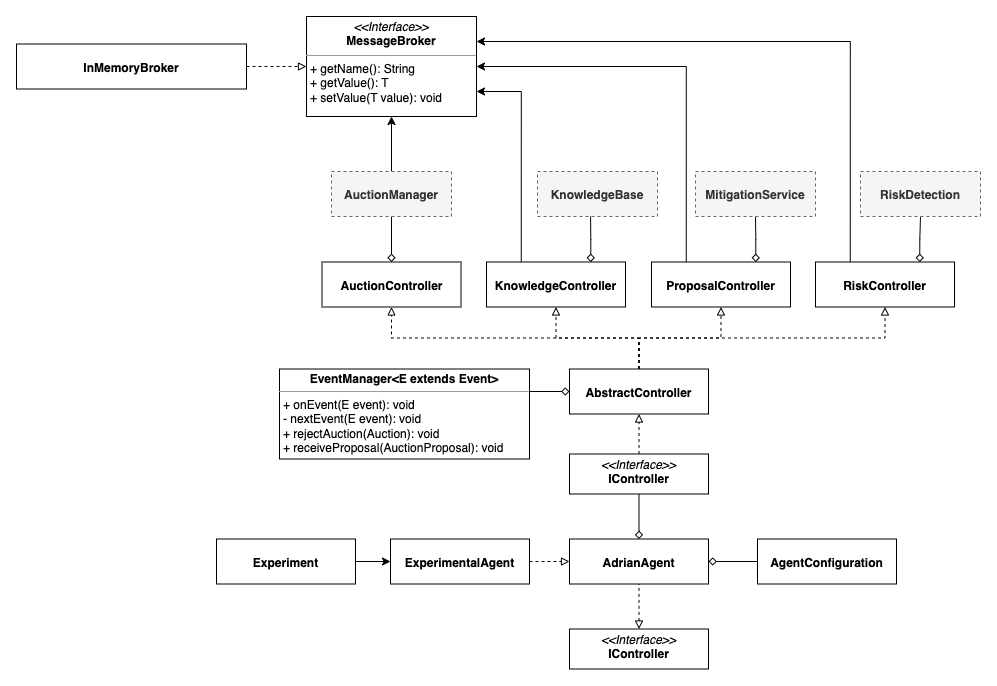
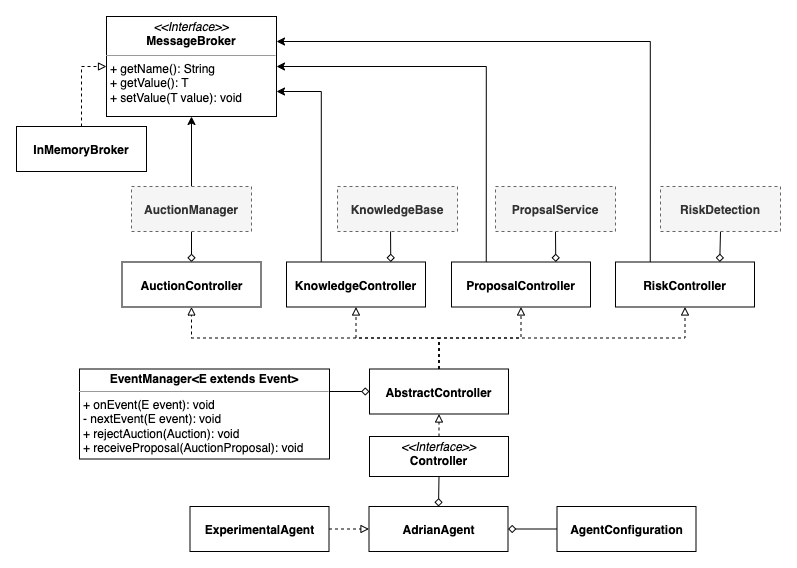
update graphs and text

diff --git a/packages/thesis/src/sections/software-realization.tex b/packages/thesis/src/sections/software-realization.tex
@@ -72,29 +72,58 @@ In the real world the infrastructure is a graph structure, something that it \co
     \label{fig:uml-graphs}
 \end{figure}
 
+\subsubsection{Services}
+\label{sssec:services}
+Each controller is only responsible for converting events into service calls. But to implement the actual logic, the controllers use services. These services are responsible for the actual computations, such as calculating the \code{AttackGraphs} or finding \code{Proposal}s. Figure \ref{fig:uml-services} shows how the services are tied together.
 
 \begin{figure}[H]
     \centering
-    \includegraphics[width=0.8\textwidth]{_content/uml-services}
+    \includegraphics[width=1.0\textwidth]{_content/uml-services}
     \caption{UML Diagram depicting how the Agents services are tied together.}
     \label{fig:uml-services}
 \end{figure}
 
-\subsection{Sequence Diagrams}
-\label{ssec:sequence-diagrams}
-\add{Update text or remove section}
-\begin{figure}[H]
-    \centering
-    \includegraphics[width=0.8\textwidth]{_content/knowledge-sharing}
-    \caption{Knowledge Exchange Sequence Diagram}
-    \label{fig:knowledge-sharing}
-\end{figure}
+\begin{description}
+    \item[RiskDetection] This service is responsible for detecting risks in the infrastructure. It does this by calculating the attack graph for each node in the infrastructure. With the attack graph it can then identify \textit{Critical Paths} by finding paths from nodes to a \textit{critical software component}. These \textit{Critical Paths} are then used to calculate the risk damage value. We calculate the risk damage by taking the potential damage value of a software component, and multiplying it by the probability of the path. The probability is calculated over all edges between nodes, that are in the same direction of the critical path. 
+    \begin{figure}[H]
+        \centering
+        \begin{subfigure}[b]{0.4\textwidth}
+            \centering
+            \includegraphics[width=\textwidth]{_content/attack-graph.png}
+            \caption{Attack graph between nodes and software components}
+            \label{fig:attack-graph}
+        \end{subfigure}
+        \hspace{0.5cm}
+        \centering
+        \begin{subfigure}[b]{0.4\textwidth}
+            \centering
+            \includegraphics[width=\textwidth]{_content/riskreport-future-research-a.png}
+            \caption{Risk report for a critical path}
+            \label{fig:risk-report}
+        \end{subfigure}
+        \caption{On the left is the graph representation of an attack graph, where each edge is a risk that is hold a probability of an attacker exploiting it. The graph is directional, and can hold edges in multiple directions. On the right is the graph representation of a risk report. The risk report is also directional, but only contains the edges that are in the same \textit{direction} as the critical path. Both graphs can have incoming edges to indicate that a node could be the starting point of an attack.}
+    \end{figure}
 
-\begin{figure}[H]
-    \centering
-    \includegraphics[width=0.8\textwidth]{_content/auction}
-    \caption{Auction Sequence Diagram}
-    \label{fig:auction}
-\end{figure}
+    \item[ProposalService] This service is responsible for calculating proposals that the node is willing to apply. It does this by taking the risk report from an auction, and applying different adaptations to it. For example an adaptation could be to update properties of a node or software, or migrate a software component to another node. The service then calculates the risk damage value for each adaptation, and returns the adaptation with the lowest risk damage value. This adaptation is then used as a bid in the auction, for the auctioneer to consider. 
+    
+    \item[AuctionManager] This service is responsible for starting and managing the state of an auction. When it starts a new auction, it will sent invitations to other agents and waits for their replies (accept or reject). It will also keep track of the current state of the auction, and waits for proposals to be submitted. When a proposal is submitted, it will check if all participating nodes replied. If this is the case, it will calculate the risk damage value for each proposal, and select the proposal with the lowest risk damage value. This proposal is then broadcasted to all participating nodes, and the auction is finished. The manager will then wait for the next auction to start. There might also be cases where participating nodes fail to sent proposals. For these cases the \code{AuctionManager} has a timeout that starts when an auction starts. If the timeout is reached, the manager will finish the auction at that point, and select the proposal with the lowest risk damage value. If no applicable proposals were received, the auction is cancelled and nothing is done.
+\end{description}
 
-\addtocontents{toc}{\protect\setcounter{tocdepth}{3}}
+% \subsection{Sequence Diagrams}
+% \label{ssec:sequence-diagrams}
+% \add{Update text or remove section}
+% \begin{figure}[H]
+%     \centering
+%     \includegraphics[width=0.8\textwidth]{_content/knowledge-sharing}
+%     \caption{Knowledge Exchange Sequence Diagram}
+%     \label{fig:knowledge-sharing}
+% \end{figure}
+
+% \begin{figure}[H]
+%     \centering
+%     \includegraphics[width=0.8\textwidth]{_content/auction}
+%     \caption{Auction Sequence Diagram}
+%     \label{fig:auction}
+% \end{figure}
+
+% \addtocontents{toc}{\protect\setcounter{tocdepth}{3}}

diff --git a/packages/thesis/src/sections/experiments.tex b/packages/thesis/src/sections/experiments.tex
@@ -92,7 +92,6 @@ The infrastructure that is used in the experiments is based on the infrastructur
     \label{fig:infrastructure}
 \end{figure}
 
-\add{Maybe explain the infrastructure in more detail}
 The infrastructure in figure \ref{fig:infrastructure} tries to mimic a smart-home environment, with a set of IoT-devices such as the alarm system, door lock, and motion sensor. Each of these devices run a specific software asset which is depicted by the smaller circles next to them. Next to the IoT-devices several 'common' devices are present, such as a printer, desktop, and router. The heart of the smart-home is the IoT Controller, which is responsible for managing the other devices through the Controller Software. The Software assets marked with a red border are critical assets, which means that compromising these assets could have a significant impact. For example a compromised door lock could allow an attacker to enter the house. The Cloud Software on the left of figure \ref{fig:infrastructure} is designed to have multiple entry points into the private network. This is done to mimic a real-world scenario where the cloud software is hosted on a cloud provider, and is accessible through the internet. One example would be the usage of a cloud based printer provider that allows users to print documents from outside of the network.
 
 
@@ -111,7 +110,7 @@ The metrics we've defined can be categorized by effectiveness and efficiency. Ef
         Weighted sum of damages of remaining risk & Time spent auctioning  \\
                                           & Time spent adapting            \\
     \end{tabular}
-    \caption{\label{table:metrics-groups}Overview of the metrics that are measured, grouped by their category.}
+    \caption{\label{table:metrics-groups}Overview of the metrics that are measured, grouped by either effectiveness or efficiency.}
 \end{table}
 
 
@@ -147,7 +146,7 @@ There is a limit to the speed-up that can be achieved in the simulation as the p
 Places where these delays are implemented are for example the delivery of network-messages and the execution of adaptations. 
 
 \label{sssec:knowledge-depth}
-In the ADRIAN concept document by Mann and Smolka \cite{mann2023ADRIAN}, the concept of knowledge sharing depth/distance is mentioned.  This means that we can control how far agents are able to share their knowledge. This is done by setting a maximum distance between agents. This distance is defined as the number of hops between agents. This means that if the distance is set to 1, agents are only able to share knowledge with their direct neighbors. If the distance is set to 2, agents are able to share knowledge with their direct neighbors and the neighbors of their neighbors. This allows us to test the effect of knowledge sharing on the results of the experiments. During the experimentation it is set to 1, and is not changed throughout the experiments.
+In the ADRIAN concept document by Mann and Smolka \cite{mann2023ADRIAN}, the concept of knowledge sharing depth/distance is mentioned.  This means that we can control how far agents are able to share their knowledge. This is done by setting a maximum distance between agents. This distance is defined as the number of hops a message can be sent between agents. This means that if the distance is set to 1, agents are only able to share knowledge with their direct neighbors. If the distance is set to 2, agents are able to share knowledge with their direct neighbors and the neighbors of their neighbors. During the experimentation it is set to 1, and is not changed throughout the experiments, more on this in Section \ref{sec:future-research}.
 
 \label{sssec:risk-rules}
 As explained in Section \ref{ssec:adrian}, risk rules are used to identify risks and their probabilities in the infrastructure. These risk rules are what define attack graphs. In the experiments we use the same set of risk rules for each experiment. This means that each experiment is able to identify the same risks.

diff --git a/packages/thesis/src/sections/future-research.tex b/packages/thesis/src/sections/future-research.tex
@@ -28,5 +28,6 @@ During the implementation and experimentation some back-and-forth discussions we
 \end{figure}
 
 
-An alternative to sending all edges, was to merge the probabilities of all the edges between two nodes into a single edge (See figure \ref{fig:riskreport-b}). This would result in a smaller amount of data being sent during an auction. However, this would also result in a loss of information. Since there are no actual messages sent over the network in the experiments, the amount of data that was sent was not a bottleneck, so the decision was made to send all edges of the subgraph. However, if this system were to be implemented in a real-world scenario, the amount of data sent could be a bottleneck. In that case, it would be interesting to see how the system would perform with the alternative risk report.
+An alternative to sending all edges, was to merge the probabilities of all the edges between two nodes into a single edge (See figure \ref{fig:riskreport-b}). This merging could be done similar to the logic that is used when calculating the risk damage value, for example $p = \prod_{k=1}^{R} (1 - p_{k})$ where $R$ is the risk edges between the nodes, and $p_{k}$ is the probability for an edge. 
+This would result in a smaller amount of data being sent during an auction. However, this would also result in a loss of information. Since there are no actual messages sent over the network in the experiments, the amount of data that was sent was not a bottleneck, so the decision was made to send all edges of the subgraph. However, if this system were to be implemented in a real-world scenario, the amount of data sent could be a bottleneck. In that case, it would be interesting to see how the system would perform with the alternative risk report.
 

diff --git a/packages/thesis/src/sections/results.tex b/packages/thesis/src/sections/results.tex
@@ -3,6 +3,7 @@
 In this section we present the results of the experiments defined in section \ref{sec:experiments}. The results will be grouped per scenario. We start by presenting overall damage of the system in each of the scenarios, as it is the key indicator of the performance of the system. We then present the other metrics that we defined in section \ref{ssec:metrics}.
 
 \subsection{Scenario 1: No Changes}
+
 \begin{figure}[H]
     \centering
     \input{graphs/overall-damage-no-change}

diff --git a/packages/thesis/src/sections/discussion.tex b/packages/thesis/src/sections/discussion.tex
@@ -1,2 +1,8 @@
 \section{Discussion}
 \label{sec:discussion}
+
+\add{Mention how the results can be interpreted}
+\add{Relate this to the research questions}
+
+\add{Mention the performance of knowledge-sharing in smaller networks}
+\add{Mention the effects of compromised agents and the impact}
